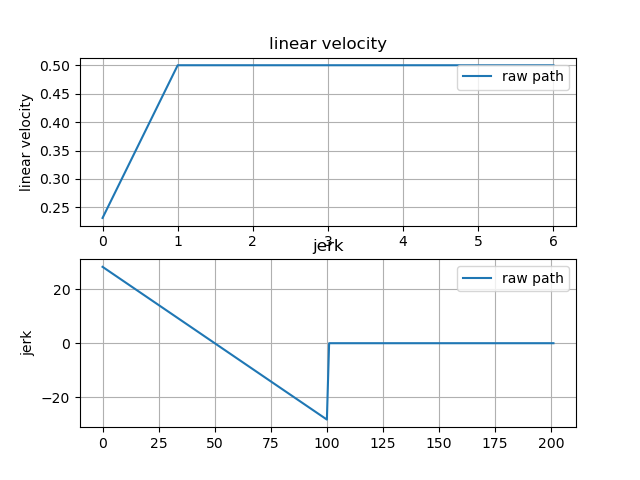
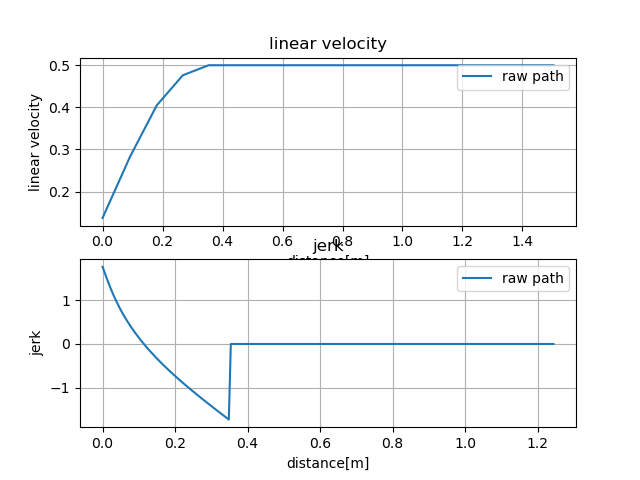
🐞 fix:

diff --git a/src/adaptive_open_local_planner_ros.cpp b/src/adaptive_open_local_planner_ros.cpp
@@ -984,31 +984,33 @@ namespace adaptive_open_local_planner
         matplotlibcpp::figure();
         // matplotlibcpp::ion();
         matplotlibcpp::clf();
-        std::vector<float> linear_velocity_vec = getLinearVelocityVec(waypoint_vec);
-        std::vector<float> jerk_vec = getJerk(waypoint_vec);
-        DLOG(INFO) << "jerk vec size is " << jerk_vec.size();
+        std::vector<std::pair<float, float>> linear_velocity_pair_vec = getLinearVelocityVec(waypoint_vec);
+        std::vector<std::pair<float, float>> jerk_pair_vec = getJerk(waypoint_vec);
+        // DLOG(INFO) << "jerk vec size is " << jerk_vec.size();
         std::vector<std::string> title_vec = {"linear velocity", "jerk"};
         for (size_t i = 0; i < title_vec.size(); i++)
         {
             matplotlibcpp::subplot(2, 1, i + 1);
-            std::vector<float> vec;
-
+            std::vector<float> y_vec, x_vec;
+            std::vector<std::pair<float, float>> target_pair_vec;
             if (title_vec[i] == "linear velocity")
             {
-                vec = linear_velocity_vec;
+                target_pair_vec = linear_velocity_pair_vec;
             }
             if (title_vec[i] == "jerk")
             {
-                vec = jerk_vec;
+                target_pair_vec = jerk_pair_vec;
             }
-
-            matplotlibcpp::plot(vec, {{"label", "raw path"}});
+            y_vec = PlannerHelpers::getSecondVec(target_pair_vec);
+            x_vec = PlannerHelpers::getFirstVec(target_pair_vec);
+            matplotlibcpp::plot(x_vec, y_vec, {{"label", "raw path"}});
 
             matplotlibcpp::legend({{"loc", "upper right"}});
             // DLOG(INFO) << "Plot curvature for topic: " << curvature_vec.first;
 
             matplotlibcpp::title(title_vec[i]);
             matplotlibcpp::ylabel(title_vec[i]);
+            matplotlibcpp::xlabel("distance[m]");
             // matplotlibcpp::ylim(0, 1);
             matplotlibcpp::grid(true);
             // matplotlibcpp::show();
@@ -1017,22 +1019,32 @@ namespace adaptive_open_local_planner
         DLOG(INFO) << "out plot";
     }
 
-    std::vector<float> AdaptiveOpenLocalPlannerROS::getLinearVelocityVec(const std::vector<Waypoint> &waypoint_vec)
+    std::vector<std::pair<float, float>> AdaptiveOpenLocalPlannerROS::getLinearVelocityVec(const std::vector<Waypoint> &waypoint_vec)
     {
         // DLOG(INFO) << "in getLinearVelocityVec";
-        std::vector<float> linear_velocity_vec;
+        std::vector<std::pair<float, float>> linear_velocity_vec;
+        float distance = 0, velocity;
+        int i = 0;
+        Waypoint start_point = waypoint_vec[0];
         for (const auto &element : waypoint_vec)
         {
-            linear_velocity_vec.emplace_back(element.speed);
+            velocity = element.speed;
+            if (i != 0)
+            {
+                distance = PlannerHelpers::getDistance(PlannerHelpers::extractVector(waypoint_vec, 0, i));
+            }
+
+            linear_velocity_vec.emplace_back(std::make_pair(distance, velocity));
+            i++;
         }
         // DLOG(INFO) << "out getLinearVelocityVec";
         return linear_velocity_vec;
     }
 
-    std::vector<float> AdaptiveOpenLocalPlannerROS::getJerk(const std::vector<Waypoint> &waypoint_vec)
+    std::vector<std::pair<float, float>> AdaptiveOpenLocalPlannerROS::getJerk(const std::vector<Waypoint> &waypoint_vec)
     {
         DLOG(INFO) << "in getJerk";
-        std::vector<float> jerk_vec = velocity_planner_ptr_->findJerk();
+        std::vector<std::pair<float, float>> jerk_vec = velocity_planner_ptr_->findJerk();
         DLOG(INFO) << "out getJerk";
         return jerk_vec;
     }

diff --git a/src/pso.cpp b/src/pso.cpp
@@ -579,8 +579,56 @@ namespace adaptive_open_local_planner
         return velocity;
     }
 
-    std::vector<float> PSO::findJerk()
+    std::vector<std::pair<float, float>> PSO::findJerk()
     {
-        return findJerk(global_best_);
+        return findJerkPair(global_best_);
+    }
+
+    std::vector<std::pair<float, float>> PSO::findJerkPair(const Particle &particle)
+    {
+        // DLOG(INFO) << "in findJerk";
+        std::vector<std::pair<float, float>> jerk_pair_vec;
+        // acceleration=velocity / time, velocity should use average velocity, time = distance / average velocity
+        float total_distance, jerk, time_limit, distance = 0, start_velocity, end_velocity, A, B, C, D;
+        for (size_t i = 0; i < divided_path_.size(); i++)
+        {
+            // set velocity
+            start_velocity = particle.position_vec[i];
+            end_velocity = particle.position_vec[i + 1];
+            // set distance
+            total_distance = PlannerHelpers::getDistance(divided_path_[i]);
+            // set time: t1=2s/(v0+v1)
+            if ((start_velocity + end_velocity) != 0)
+            {
+                time_limit = 2 * total_distance / (start_velocity + end_velocity);
+            }
+            else
+            {
+                DLOG(FATAL) << "start velocity + end velocity is zero!!!";
+            }
+
+            // A=-2*(v1-v0)/t1^3;B=3(v1-v0)/t1^2;C=0;D=v0
+            A = -2 * (end_velocity - start_velocity) / std::pow(time_limit, 3);
+            B = 3 * (end_velocity - start_velocity) / std::pow(time_limit, 2);
+            C = 0;
+            D = start_velocity;
+            float previous_distance = 0;
+            for (size_t j = 0; j < i; j++)
+            {
+                previous_distance = previous_distance + PlannerHelpers::getDistance(divided_path_[j]);
+            }
+
+            // DLOG(INFO) << "time limit is " << time_limit;
+            for (float time = 0; time < time_limit; time = time + 0.01 * time_limit)
+            {
+                jerk = 6 * A * time + 2 * B;
+                distance = 0.25 * A * std::pow(time, 4) + B * std::pow(time, 3) / 3 + D * time;
+                distance = distance + previous_distance;
+                jerk_pair_vec.emplace_back(std::make_pair(distance, jerk));
+                // DLOG(INFO) << "time is " << time;
+            }
+        }
+        // DLOG(INFO) << "out findJerk";
+        return jerk_pair_vec;
     }
 }

diff --git a/include/adaptive_open_local_planner_ros.h b/include/adaptive_open_local_planner_ros.h
@@ -123,10 +123,15 @@ namespace adaptive_open_local_planner
         void calculateVelocityAndSteeringAngleRate(const std::vector<Waypoint> &best_path, float &velocity, float &steering_angle_rate);
 
         void plot(const std::vector<Waypoint> &waypoint_vec);
+        /**
+         * @brief Get the Linear Velocity Vec object
+         *
+         * @param waypoint_vec
+         * @return std::vector<std::pair<float,float>> first is distance, second is velocity
+         */
+        std::vector<std::pair<float, float>> getLinearVelocityVec(const std::vector<Waypoint> &waypoint_vec);
 
-        std::vector<float> getLinearVelocityVec(const std::vector<Waypoint> &waypoint_vec);
-
-        std::vector<float> getJerk(const std::vector<Waypoint> &waypoint_vec);
+        std::vector<std::pair<float, float>> getJerk(const std::vector<Waypoint> &waypoint_vec);
 
     protected:
         /**

diff --git a/src/planner_helpers.cpp b/src/planner_helpers.cpp
@@ -854,4 +854,24 @@ namespace adaptive_open_local_planner
         // DLOG(INFO) << "out sumVector";
         return result;
     }
+
+    std::vector<float> PlannerHelpers::getFirstVec(const std::vector<std::pair<float, float>> &pair_vec)
+    {
+        std::vector<float> first_vec;
+        for (const auto &element : pair_vec)
+        {
+            first_vec.emplace_back(element.first);
+        }
+        return first_vec;
+    }
+
+    std::vector<float> PlannerHelpers::getSecondVec(const std::vector<std::pair<float, float>> &pair_vec)
+    {
+        std::vector<float> second_vec;
+        for (const auto &element : pair_vec)
+        {
+            second_vec.emplace_back(element.second);
+        }
+        return second_vec;
+    }
 }

diff --git a/include/pso.h b/include/pso.h
@@ -43,7 +43,9 @@ namespace adaptive_open_local_planner
 
         std::vector<float> findJerk(const Particle &particle);
 
-        std::vector<float> findJerk();
+        std::vector<std::pair<float, float>> findJerk();
+
+        std::vector<std::pair<float, float>> findJerkPair(const Particle &particle);
 
     private:
         bool initialize(const std::vector<std::vector<Waypoint>> &divided_path, const std::vector<std::pair<float, float>> &linear_velocity_boundary, const float &min_acceleration, const float &max_acceleration, const float &weighting, const float &personal_learning_rate, const float &global_learning_rate, const float &cost_difference_boundary, const int &max_interation, const int &number_of_particle);

diff --git a/include/planner_helpers.h b/include/planner_helpers.h
@@ -83,5 +83,9 @@ namespace adaptive_open_local_planner
         static float getDistance(const Waypoint &prev, const Waypoint &current);
 
         static float sumVector(const std::vector<float>& vector);
+
+        static std::vector<float> getFirstVec(const std::vector<std::pair<float, float>> &pair_vec);
+
+        static std::vector<float> getSecondVec(const std::vector<std::pair<float, float>> &pair_vec);
     };
 };

diff --git a/include/velocity_planner.h b/include/velocity_planner.h
@@ -22,7 +22,7 @@ namespace adaptive_open_local_planner
 
         std::vector<Waypoint> planVelocity(const std::vector<Waypoint> &local_path, const float &current_speed);
 
-        std::vector<float> findJerk();
+        std::vector<std::pair<float, float>> findJerk();
 
     private:
         /**

diff --git a/src/velocity_planner.cpp b/src/velocity_planner.cpp
@@ -239,7 +239,7 @@ namespace adaptive_open_local_planner
         // }
     }
 
-    std::vector<float> VelocityPlanner::findJerk()
+    std::vector<std::pair<float, float>> VelocityPlanner::findJerk()
     {
         return pso_ptr_->findJerk();
     }
